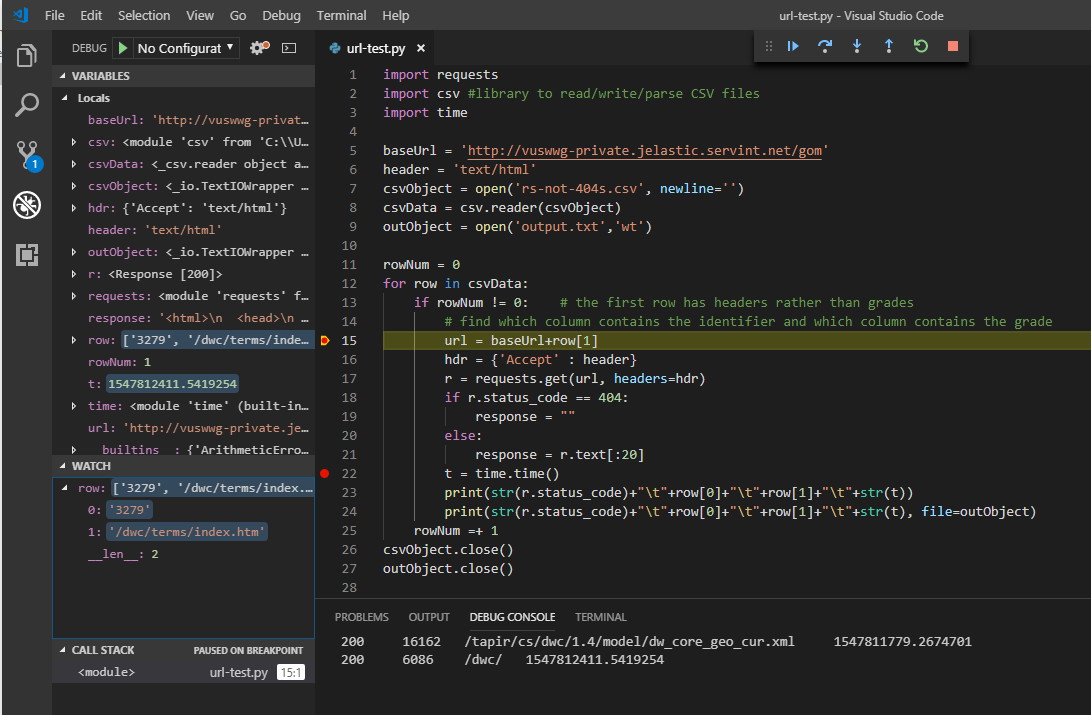
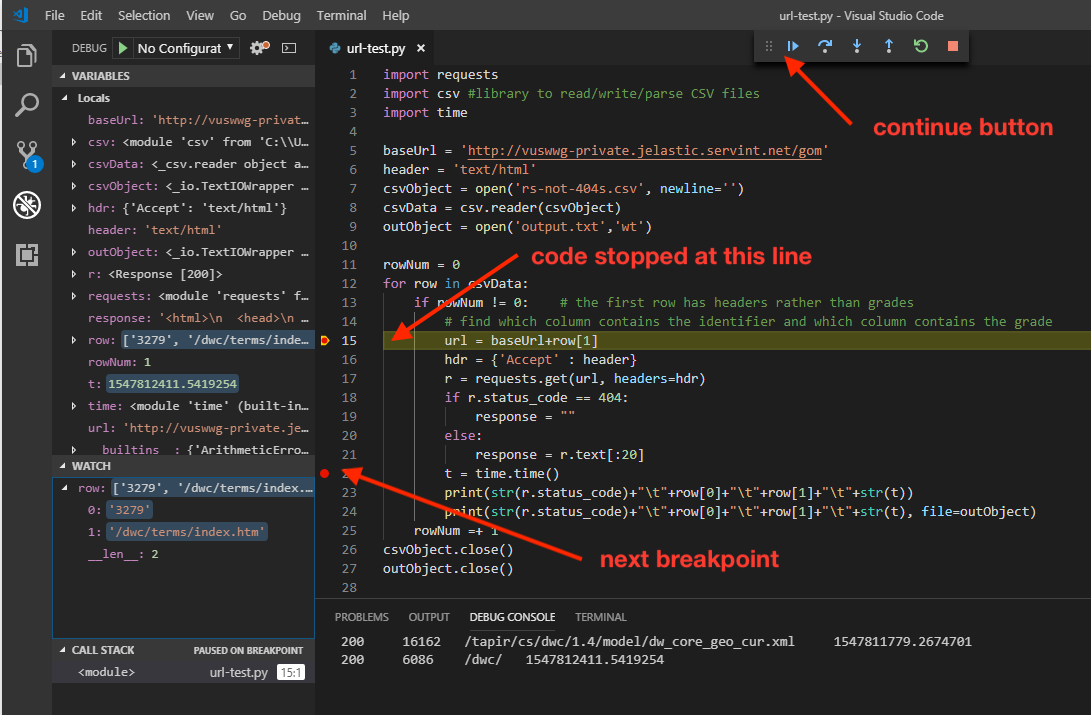
Add directions for debugging with VS Code

diff --git a/script/python/editor.md b/script/python/editor.md
@@ -42,7 +42,7 @@ Here are a few ad hoc observations that might help you chose between Atom and V.
 
 Atom has a nice build-in Markdown previewer.  You can also install a package that enables GitHub integration within the editor.  (Atom was created by the GitHub people.) However, Atom also has an annoying navigator pane that sometimes appears at inconvenient times (but that can easily be closed by `Ctrl \` in Windows or `option \` in Mac).
 
-When editing Python, V.S. Code makes faint guidelines to make the indentation levels more apparent (see the screenshot above).  This can be helpful in long scripts.  It also shows a miniature view of the whole script at the right side of the screen, and you can click and drag on the miniscript view to move rapidly through the whole script.  
+When editing Python, V.S. Code makes faint guidelines to make the indentation levels more apparent (see the screenshot above).  This can be helpful in long scripts.  It also shows a miniature view of the whole script at the right side of the screen, and you can click and drag on the miniscript view to move rapidly through the whole script.  V.S. Code has debugging features that let you step through your Python code and see what's going on as the program runs.
 
 Both editors have autocomplete features, which can be awesome or annoying depending on what you like.
 
@@ -159,5 +159,17 @@ the Python processor will provide an error message, since "pring" is not a valid
 <img src="../images/error.png" style="border:1px solid black">
 <img src="../images/error-mac.png" style="border:1px solid black">
 
+# Debugging using V.S. Code
+
+One of the challenging aspects of coding is understanding what is going on in your program when things are not working.  V.S. Code has some nice built-in features to help you debug your code.  To use those features, go to the Debug menu and select Start Debugging.
+
+<img src="../images/vs-code-debug.png" style="border:1px solid black">
+
+When you are in debugging mode, several features become available on the screen.  If you click just to the left of the line numbers, you can set *breakpoints*.  A breakpoint is a place in the code where execution will pause in order to give you an opportunity to figure out what is going on at that point.  A set breakpoint appears as a red dot to the left of the line number.  To start running the code, click on the continue button in the little control panel at the top.  The script will run until it reaches the breakpoint and then pause.  The line at which the code is stopped is highlighted and the breakpoint dot is surrounded by a yellow pointer.
+
+While the code is paused, you can examine the situation of the variables in the program.  The pane to the left of the editing pane shows a list of variables and their values.  If the variable is a list, the components of the list can be displayed by clicking on the triangle to the left of the variable name.  If you want to watch a few particular variables, you can add them to the Watch list at the bottom of the pane.  You can also see what the values are of variables by just mousing over them in the main editing pane.
+
+Below the editing pane is a console pane that can display several things.  If you have problems with the code itself (such as syntax errors), clicking on the PROBLEMS tab will display them.  The DEBUG CONSOLE tab will display any printed output.  The TERMINAL tab allows you to issue any command line commands that you could normally type into your operating system console.
+
 ----
-Revised 2019-01-13
+Revised 2019-01-18
